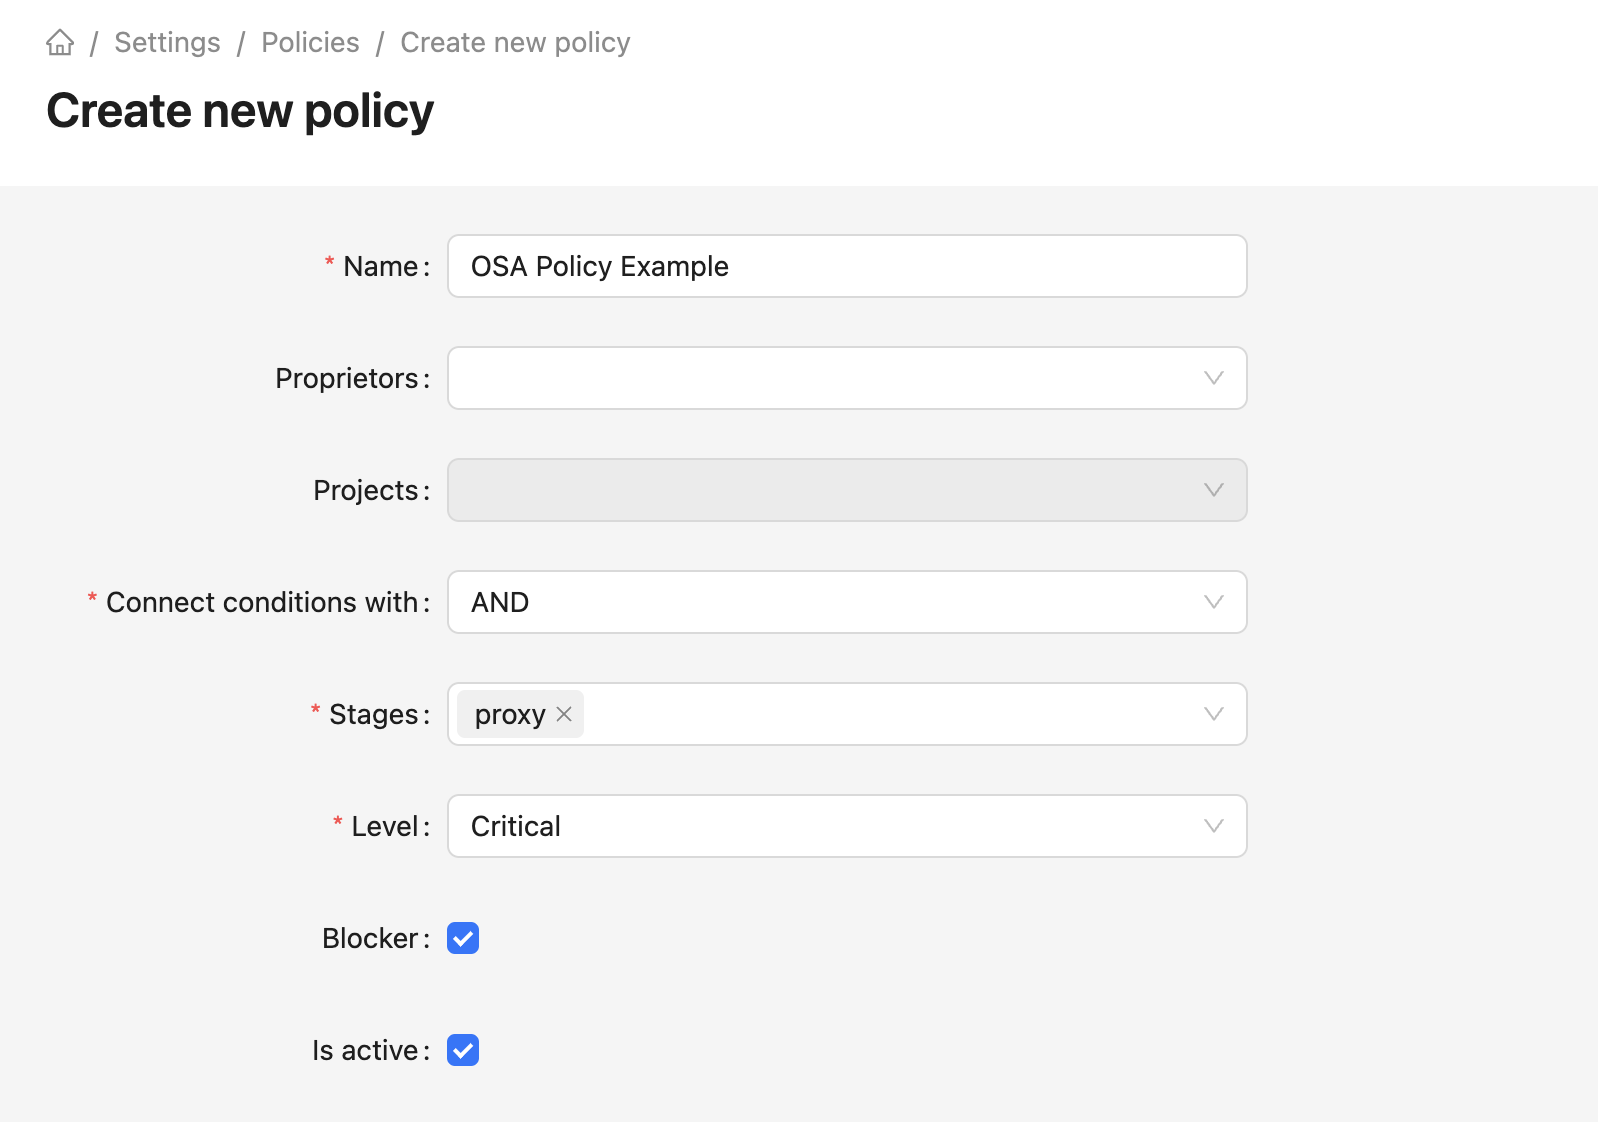
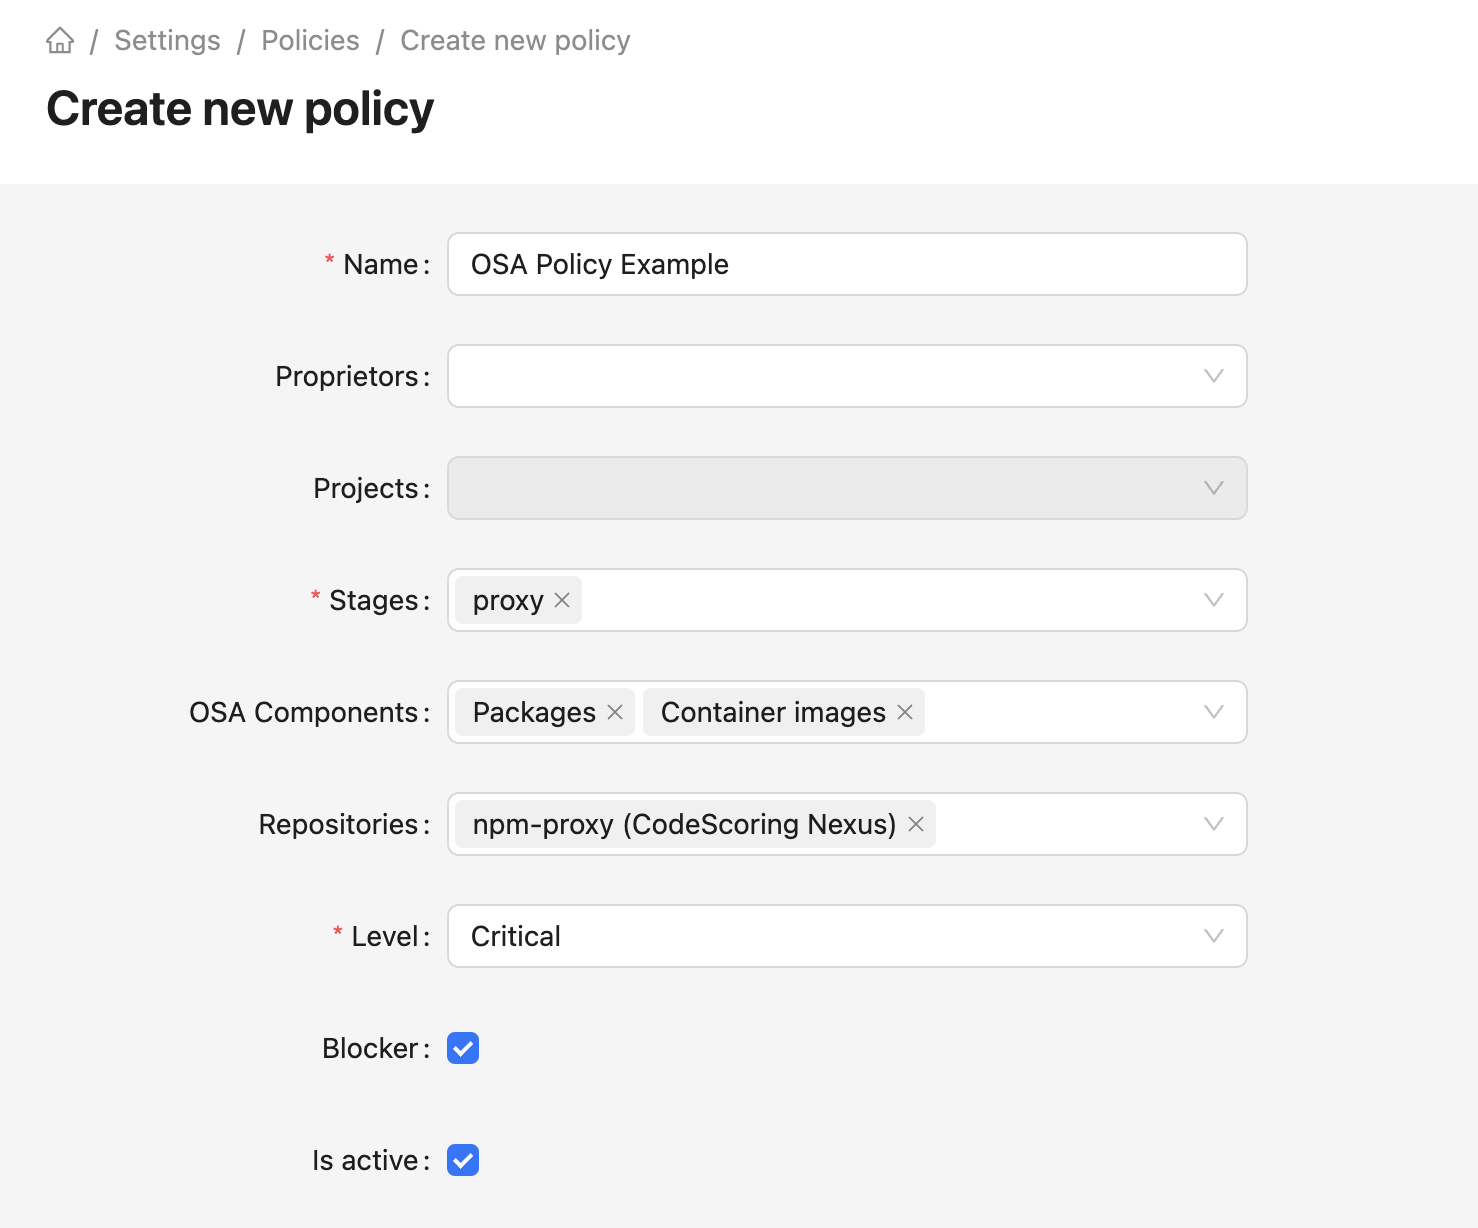
added info on new policy features

diff --git a/docs/on-premise/how-to/policies.md b/docs/on-premise/how-to/policies.md
@@ -12,7 +12,7 @@ hide:
 Политики можно создавать для:
 
 - всей организации;
-- отдела;
+- подразделения;
 - проекта;
 - окружения разработки.
 
@@ -86,7 +86,15 @@ hide:
 - **Relation** — прямая или транзитивная зависимость;
 - **CWE** — классификация в индексе Common Weakness Enumeration.
 
-Политика становится активной сразу после создания по нажатию кнопки **Create**. 
+Условия политики можно объединять в группы (**Group**) с помощью логических выражений **AND/OR**.
+
+Например, можно задать условия политики для следующего сценария – либо зависимость содержит уязвимость с эксплойтом и рекомендацию по исправлению, либо зависимость является директивной и содержит критическую уязвимость по стандарту CVSS3.
+
+Для создания такой политики необходимо добавить две группы, объединенные выражением **OR**. Это значит, что политика сработает при соответствии любой из перечисленных групп условий. Внутри группы задаются условия (**Rule**), объединенные выражением **AND**.
+
+![Policy example](/assets/img/policy_example.png)
+
+Политика становится активной сразу после создания по нажатию кнопки **Create**. Для созданной политики можно настроить действия при ее срабатывании – [уведомление на почту](/on-premise/how-to/notifications/#email) или [создание задачи в Jira](/on-premise/how-to/notifications/#jira).
 
 **Важно!** Политики срабатывают во время анализа, поэтому важно их создать до запуска анализа.
 

diff --git a/docs/osa/osa-policies.md b/docs/osa/osa-policies.md
@@ -8,8 +8,16 @@ hide:
 
 Для того чтобы политика применялась при вызове от плагина, необходимо задать следующие настройки выбранной политики в разделе `Policies`:
 
- - **Stages** – указать значение *proxy*;
- - установить флаг *Blocker*;
- - установить флаг *Is Active*.
+- **Stages** – указать значение *proxy*;
+- установить флаг *Blocker*;
+- установить флаг *Is Active*.
+
+Помимо этого, можно уточнить область применения политики по двум параметрам:
+
+- **OSA Components** – тип компонентов, на которые будет распространяться политика (пакеты или контейнерные образы);
+- **Repositories** – список репозиториев с компонентами.
+
+**Важно**: для выбора репозитория необходимо сперва [подключить менеджер репозиториев](/on-premise/how-to/repo-managers) на инсталляции.
 
 ![Policy settings example](/assets/img/osa/policy_settings_example.png)
+
